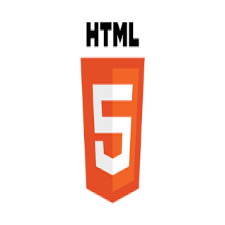
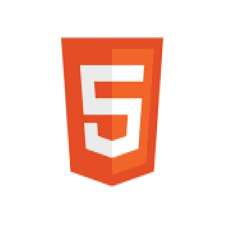
skill

Changed region(s): [[0.2489, 0.0933, 0.7467, 0.9022]]

diff --git a/index.html b/index.html
@@ -6,17 +6,23 @@
 -->
 <html>
 <head>
-    <title>Editorial by HTML5 UP</title>
+    <title>넨이의 코딩</title>
     <meta charset="utf-8"/>
     <meta name="viewport" content="width=device-width, initial-scale=1, user-scalable=no"/>
     <link rel="stylesheet" href="assets/css/main.css"/>
     <link rel="stylesheet" href="assets/mine/css/index.css">
+
+    <!--BOOTSTRAP-->
+    <!--    <link href="https://cdn.jsdelivr.net/npm/bootstrap@5.1.3/dist/css/bootstrap.min.css" rel="stylesheet"-->
+    <!--          integrity="sha384-1BmE4kWBq78iYhFldvKuhfTAU6auU8tT94WrHftjDbrCEXSU1oBoqyl2QvZ6jIW3" crossorigin="anonymous">-->
+    <!--    <script src="https://cdn.jsdelivr.net/npm/bootstrap@5.1.3/dist/js/bootstrap.bundle.min.js"-->
+    <!--            integrity="sha384-ka7Sk0Gln4gmtz2MlQnikT1wXgYsOg+OMhuP+IlRH9sENBO0LRn5q+8nbTov4+1p"-->
+    <!--            crossorigin="anonymous"></script>-->
 </head>
 <body class="is-preload">
 
 <!-- Wrapper -->
 <div id="wrapper">
-
     <!-- Main -->
     <div id="main">
         <div class="inner">
@@ -25,7 +31,7 @@
             <header id="header">
                 <a href="index.html" class="logo"><h2 style="margin: 0; display: inline-block;">넨이의 코딩</h2><span>by Developer</span></a>
                 <ul class="icons">
-                    <li><a href="#" class="icon brands fa-twitter"><span class="label">Twitter</span></a></li>
+                    <!--                    <li><a href="#" class="icon brands fa-twitter"><span class="label">Twitter</span></a></li>-->
                     <li><a href="#" class="icon brands fa-facebook-f"><span class="label">Facebook</span></a></li>
                     <!--										<li><a href="#" class="icon brands fa-snapchat-ghost"><span class="label">Snapchat</span></a></li>-->
                     <li><a href="#" class="icon brands fa-instagram"><span class="label">Instagram</span></a></li>
@@ -38,13 +44,13 @@
                 <div class="content">
                     <header>
                         <h2>안녕하세요.<br/>
-                            넨이의 코딩입니다.</h2>
+                            개발자 유영빈입니다.</h2>
                         <p>hello, coding by nen</p>
                     </header>
                     <p>고등학교부터 IT 관련 학과를 진학하여 현재까지 웹 개발을 이어가고 있습니다. 여러가지 웹 페이지를 만들며 능력을 키워나가는 중에 있습니다.
                         조금은 부족할 수 있지만, 최고의 성과물을 내기위해 노력하겠습니다. 감사합니다.</p>
                     <ul class="actions">
-                        <li><a href="#Ability" class="button big">Ability To Develop</a></li>
+                        <li><a href="#PortFolio" class="button big">PortFolio</a></li>
                     </ul>
                 </div>
                 <span class="image object">
@@ -55,54 +61,115 @@
             <!-- Section -->
             <section id="Ability">
                 <header class="major">
-                    <h2>Ability To Develop</h2>
+                    <h2>Skill</h2>
                 </header>
-                <div class="features">
-                    <article>
-                        <div>
-                            <img src="img/java.png" class="ability-img">
-						</div>
-                        <div class="content">
-                            <h3>JAVA</h3>
-                            <p>Aenean ornare velit lacus, ac varius enim lorem ullamcorper dolore. Proin aliquam
-                                facilisis ante interdum. Sed nulla amet lorem feugiat tempus aliquam.</p>
-                        </div>
-                    </article>
-                    <article>
-						<div>
-							<img src="img/html.png" class="ability-img">
-						</div>
-                        <div class="content">
+                <!--                프론트엔드-->
+                <div>
+                    <h2 class="center-header skill-mini-header">Front End</h2>
+                </div>
+                <div class="flex-container">
+                    <article class="block">
+                        <div class="content hide-content">
                             <h3>HTML</h3>
-                            <p>Aenean ornare velit lacus, ac varius enim lorem ullamcorper dolore. Proin aliquam
-                                facilisis ante interdum. Sed nulla amet lorem feugiat tempus aliquam.</p>
+                        </div>
+                        <div>
+                            <img src="img/html5.svg" class="skill-img innerImg">
                         </div>
                     </article>
-                    <article>
-						<div>
-							<img src="img/css.png" class="ability-img">
-						</div>
-                        <div class="content">
+                    <article class="block">
+                        <div class="content hide-content">
                             <h3>CSS</h3>
-                            <p>Aenean ornare velit lacus, ac varius enim lorem ullamcorper dolore. Proin aliquam
-                                facilisis ante interdum. Sed nulla amet lorem feugiat tempus aliquam.</p>
+                        </div>
+                        <div>
+                            <img src="img/css3.svg" class="skill-img innerImg">
                         </div>
                     </article>
-                    <article>
-						<div>
-							<img src="img/springBoot.png" class="ability-img">
-						</div>
-                        <div class="content">
+                    <article class="block">
+                        <div class="content hide-content">
+                            <h3>JAVASCRIPT</h3>
+                        </div>
+                        <div>
+                            <img src="img/javascript.svg" class="skill-img innerImg">
+                        </div>
+                    </article>
+                    <article class="block">
+                        <div class="content hide-content">
+                            <h3>JQUERY</h3>
+                        </div>
+                        <div>
+                            <img src="img/jquery.svg" class="skill-img innerImg">
+                        </div>
+                    </article>
+                </div>
+
+                <!--                백엔드-->
+                <div style="margin-top: 110px;">
+                    <h2 class="center-header skill-mini-header">Back End</h2>
+                </div>
+                <div class="flex-container">
+                    <article class="block">
+                        <div>
+                            <div class="content hide-content">
+                                <h3>JAVA</h3>
+                            </div>
+                            <div>
+                                <img src="img/java.png" class="skill-img">
+                            </div>
+                        </div>
+                    </article>
+                    <article class="block">
+                        <div class="content hide-content">
                             <h3>SPRING BOOT</h3>
-                            <p>Aenean ornare velit lacus, ac varius enim lorem ullamcorper dolore. Proin aliquam
-                                facilisis ante interdum. Sed nulla amet lorem feugiat tempus aliquam.</p>
+                        </div>
+                        <div>
+                            <img src="img/springBoot.png" class="skill-img">
+                        </div>
+                    </article>
+                    <article class="block">
+                        <div class="content hide-content">
+                            <h3>MYSQL</h3>
+                        </div>
+                        <div>
+                            <img src="img/mysql.svg" class="skill-img innerImg">
+                        </div>
+                    </article>
+                </div>
+                <!--                데브옵스-->
+                <div style="margin-top: 110px;">
+                    <h2 class="center-header skill-mini-header">DevOps</h2>
+                </div>
+                <div class="flex-container">
+                    <article class="block">
+                        <div>
+                            <div class="content hide-content">
+                                <h3>GITHUB</h3>
+                            </div>
+                            <div>
+                                <img src="img/github.svg" class="skill-img innerImg">
+                            </div>
+                        </div>
+                    </article>
+                    <article class="block">
+                        <div class="content hide-content">
+                            <h3>UBUNTU</h3>
+                        </div>
+                        <div>
+                            <img src="img/ubuntu.svg" class="skill-img innerImg">
+                        </div>
+                    </article>
+                    <article class="block">
+                        <div class="content hide-content">
+                            <h3>NAVER CLOUD</h3>
+                        </div>
+                        <div>
+                            <img src="img/naverCloud.png" class="skill-img innerImg">
                         </div>
                     </article>
                 </div>
             </section>
 
             <!-- Section -->
-            <section>
+            <section id="PortFolio">
                 <header class="major">
                     <h2>Portfolio</h2>
                 </header>

diff --git a/assets/mine/css/index.css b/assets/mine/css/index.css
@@ -1,3 +1,59 @@
-.ability-img{
+.ability-img {
     width: 80%;
+}
+
+.block {
+    /*display: block;*/
+    /*width: 40%;*/
+}
+
+.flex-container {
+    display: flex;
+    flex-wrap: wrap;
+    justify-content: space-between;
+    margin-bottom: 40px;
+}
+
+.skill-img {
+    width: 150px;
+    box-shadow: 5px 5px;
+    border-width: 1px;
+    border-style: solid;
+    border-color: rgb(237, 237, 237);
+    border-image: initial;
+    border-radius: 20px;
+}
+
+.innerImg{
+    padding: 30px;
+}
+
+.hide-content {
+    /*position: absolute;*/
+}
+
+.hide-content h3 {
+    margin: 0;
+}
+
+.center-header{
+    text-align: center;
+}
+
+.skill-mini-header{
+    border-bottom: 1px solid black;
+    padding-bottom: 20px;
+    margin-bottom: 60px;
+}
+
+
+/*반응형*/
+
+@media (max-width: 380px) {
+    .flex-container {
+        display: flex;
+        flex-wrap: wrap;
+        justify-content: center;
+        margin-bottom: 40px;
+    }
 }
